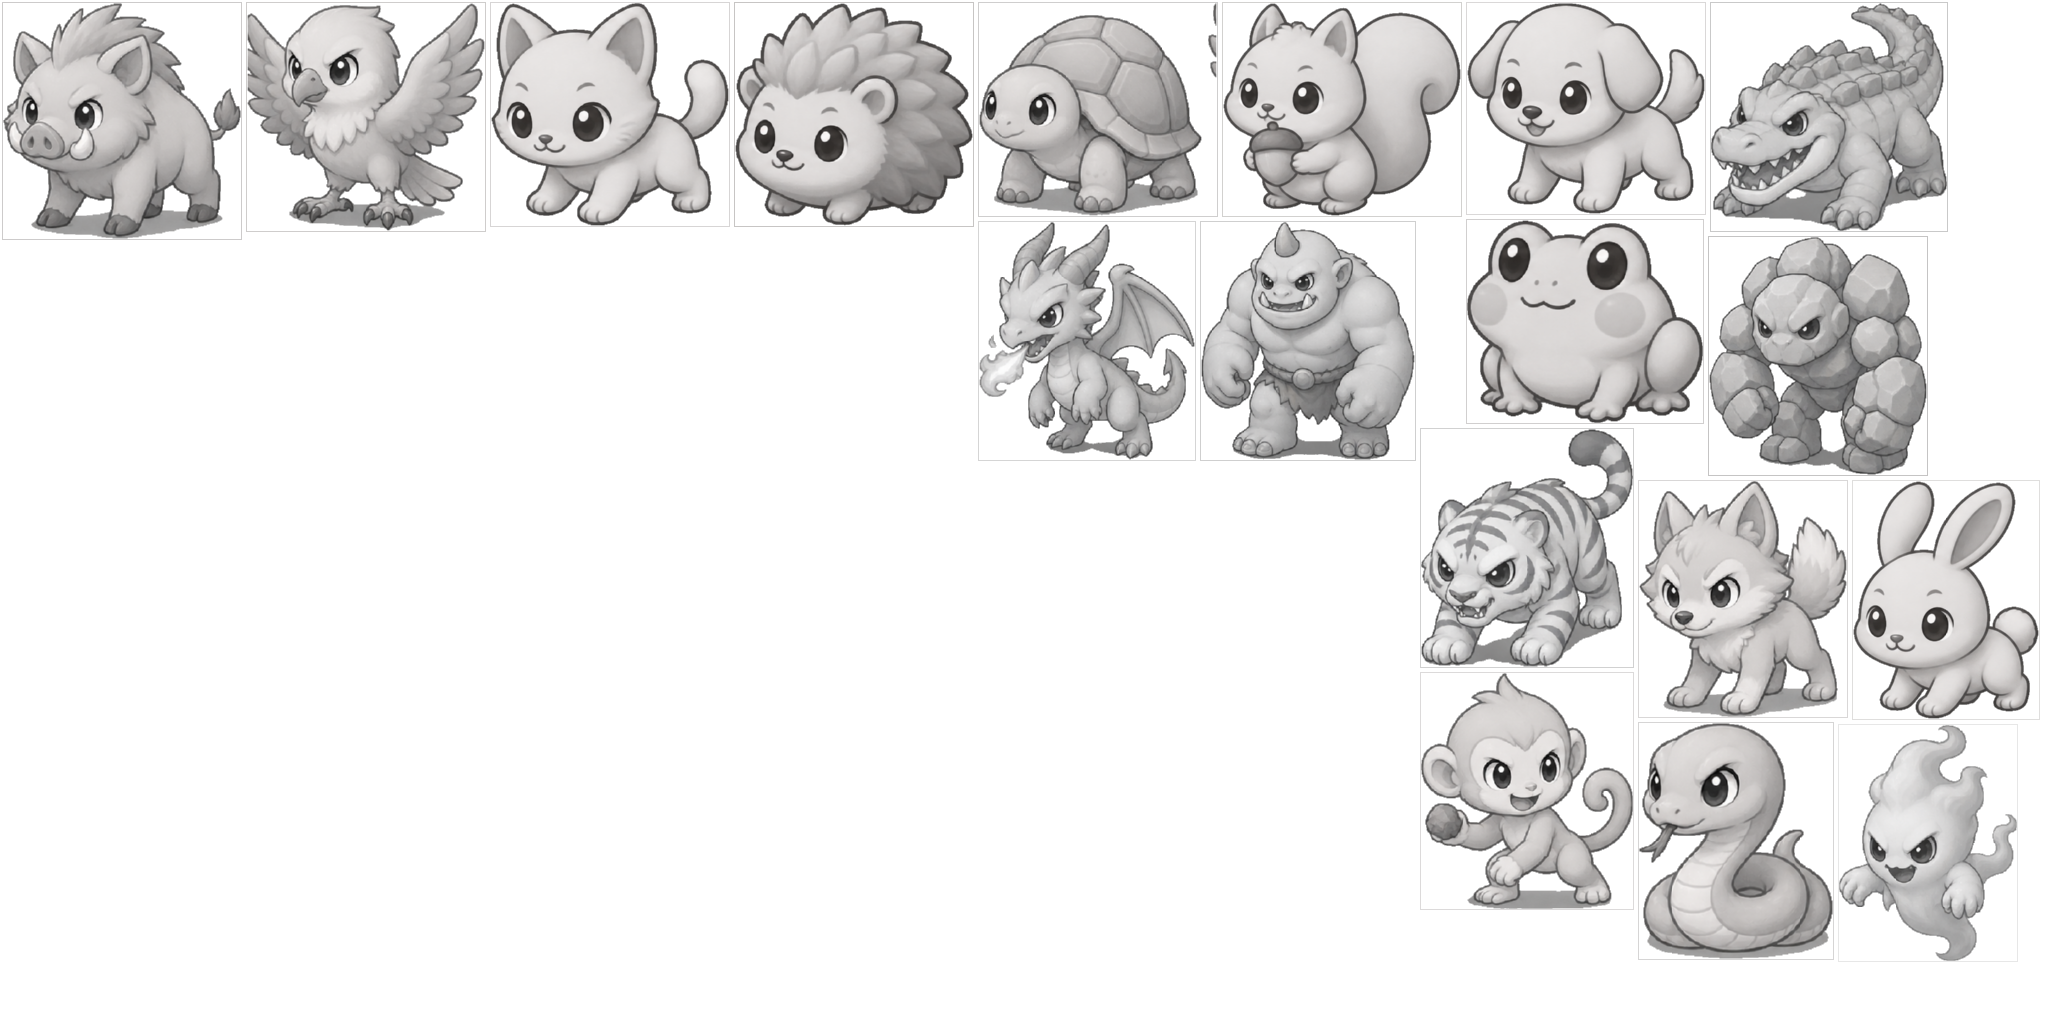
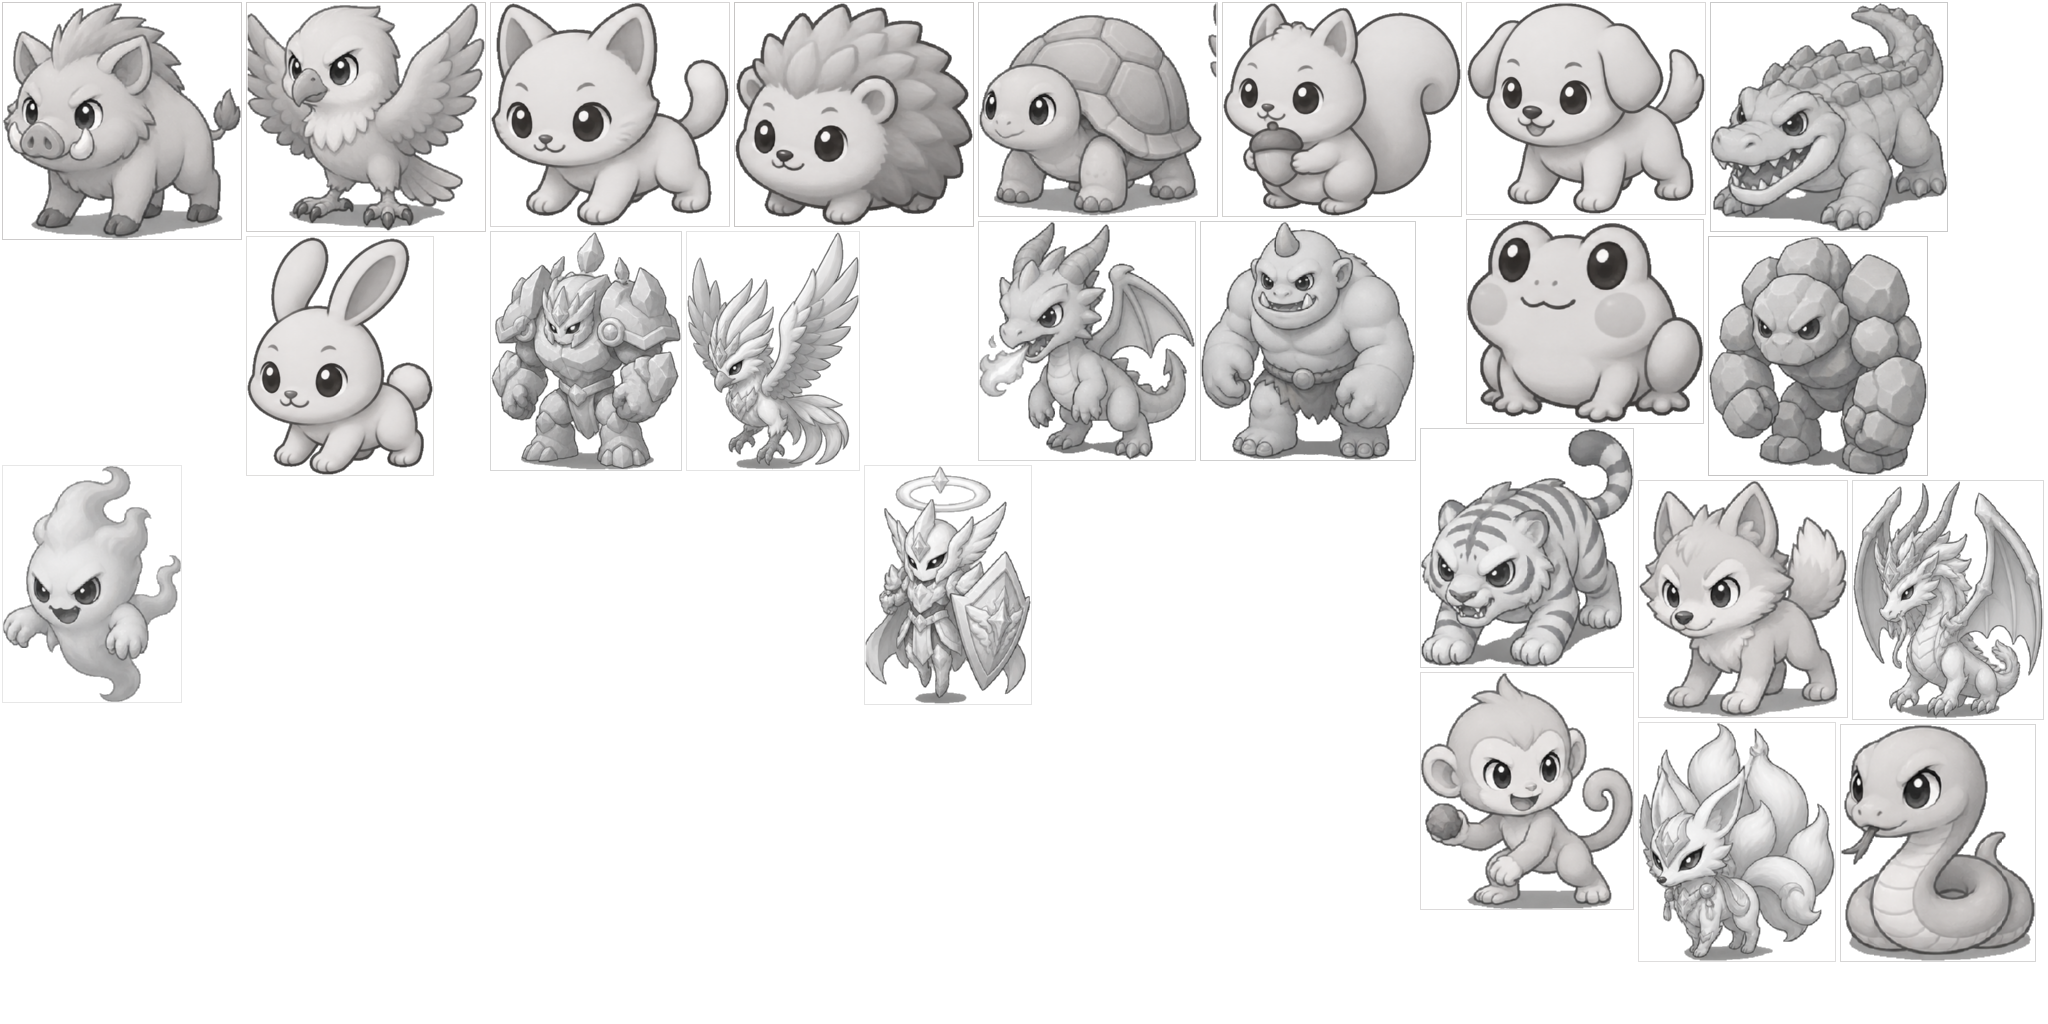
Add painted tier-4/5 monster art; all 23 forms now painted
- SpriteCook pack: burung-agung, siluman, naga-purba, titan, penjaga-abadi
  (manual crops, titan overflowed its grid cell)

diff --git a/apps/game/art/PROVENANCE.md b/apps/game/art/PROVENANCE.md
@@ -48,3 +48,5 @@ Prompt grid monster tingkat 1 (ringkas, 16:9 → 2K, 14 kredit): enam makhluk ch
 Prompt grid monster tingkat 2 (ringkas, 1:1, 8 kredit): serigala muda, babi hutan gempal bertaring kecil, ular melingkar berkepala besar, kera memegang batu untuk dilempar, kura-kura bertempurung kubah, dan elang muda bersayap terbentang (tingkat 3, mengisi sel ke-6); gaya, tampak, dan tubuh abu netral sama dengan grid tingkat 1; desain orisinal. Diproses sama seperti tingkat 1.
 
 Prompt grid monster tingkat 3–4 (ringkas, 1:1, 8 kredit): harimau bergaris abu lebih gelap, buaya bergigi lebar berpunggung zirah, hantu melayang berekor asap, golem dari bongkah batu, naga muda bersayap kecil menyemburkan napas, raksasa ramah berkepalan besar bertanduk kecil; tetap chibi tetapi lebih gagah; tubuh abu netral seperti grid sebelumnya; desain orisinal. Semua sprite monster diberi margin transparan 4 % agar tidak menyentuh tepi persegi (tepi yang menyentuh membuat kotak samar pada siluet).
+
+Prompt grid monster tingkat 4–5 (ringkas, 1:1, 8 kredit): burung agung bersayap lebar berjambul panjang, siluman rubah-roh berekor banyak bertopeng, naga purba bertanduk panjang bermahkota, titan raksasa berbahu zirah bertubuh batu, penjaga abadi berzirah hias dengan lingkar cahaya dan perisai besar; sel kanan bawah sengaja kosong; tubuh abu netral seperti grid sebelumnya; desain orisinal. Titan melewati batas sel, jadi kelima sprite dipotong dengan kotak manual (lihat `crop` di `spritecook-assets.json`).
